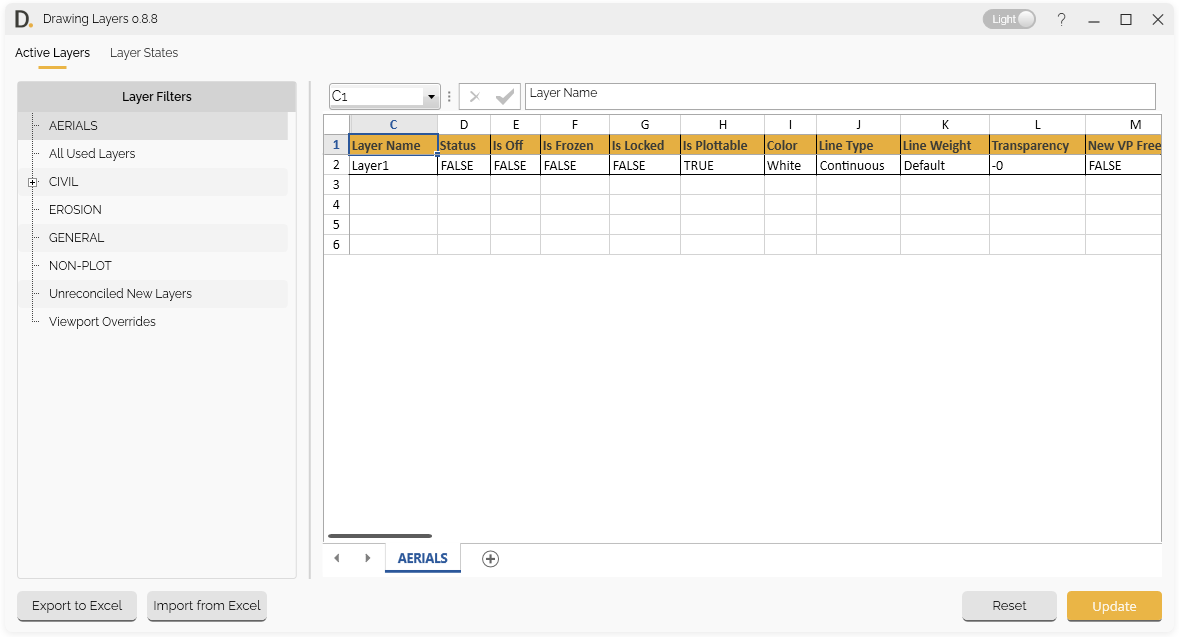
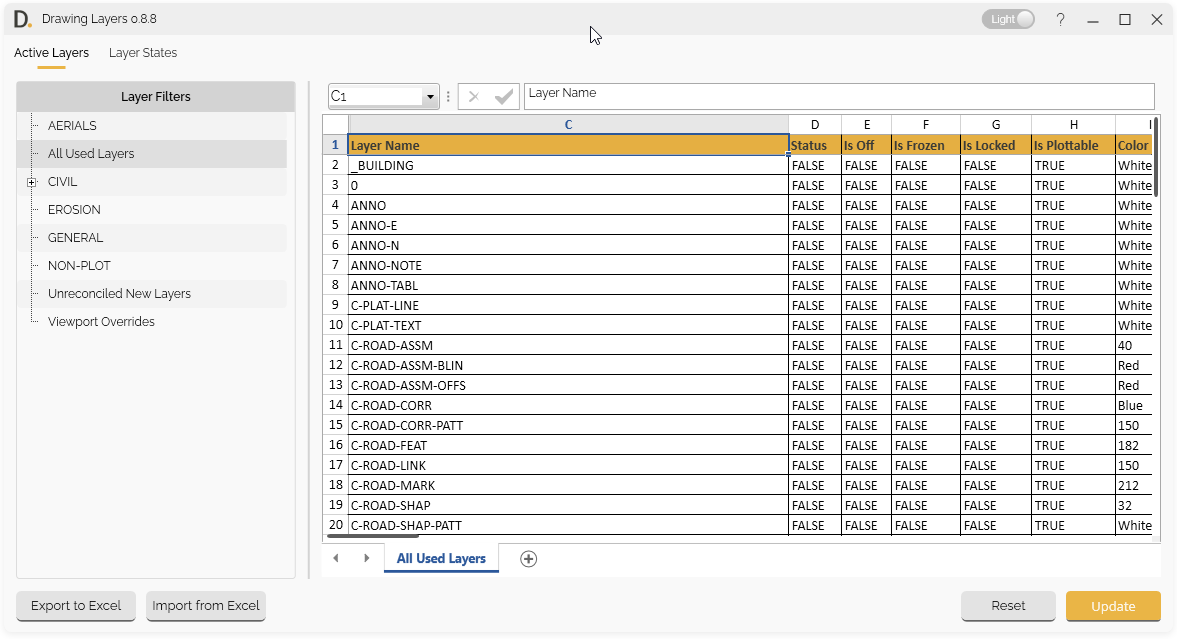
update: clean

diff --git a/docs/pages/DrawingLayers/DL-Spreadsheet-Interface.md b/docs/pages/DrawingLayers/DL-Spreadsheet-Interface.md
@@ -24,27 +24,58 @@ Drawing Layers provides a familiar spreadsheet interface for editing layer data 
 
 The spreadsheet interface offers Excel-like functionality for editing layer data, including formula support. The interface is organized into two main tabs: Active Layers and Layer States, providing comprehensive layer edition capabilities.
 
-> **GIF Placeholder:** Show overview of spreadsheet interface capabilities
 
-## Layers and Layer States
+## Active Layers Tab
 
-The interface is organized into two main tabs for different tasks:
+The Active Layers tab is the main spreadsheet interface for editing all used layer data.
 
-### Active Layers Tab
-The main spreadsheet interface for layer data edition:
-- **Filter Section** - Use the filter section to select a specific filter; the spreadsheet will then display all layer data associated with the chosen filter
+### Editing Workflow
 
-- **Layer Data View** - See all layer filters and related layers in a spreadsheet format
-- **Direct Editing** - Edit layer data directly in cells spreadsheet format
+Edit layer data in two simple steps:
 
-### Layer States Tab
-Interface for editing layer states data:
-- **Layer Assignments** - Manage layer assignments within states
-- **Bulk Changes** - Edit layer data
+#### 1. Select Layer Filter
 
-> **GIF Placeholder:** Show two-tab structure and switching
+Begin by selecting the desired layer filter to display a specific set of layers in the spreadsheet:
 
-## Interface Features
+- **Filter Selection** - Choose a filter to narrow down the layers shown. Easily find and click on the relevant layer filter for editing.
+
+#### 2. Layer Property Editing
+
+Edit layer properties directly in the spreadsheet interface:
+
+- **Layer Names** - Edit layer names and identifiers
+- **Color Settings** - Modify layer colors
+- **Linetype Properties** - Change linetype settings
+- **Other Properties** - Edit any layer property value
+
+> **GIF Placeholder:** Demonstrate selecting a filter and editing layer properties
+
+
+## Layer States Tab
+
+The Layer States tab provides spreadsheet interface for editing layer states properties within the Drawing Layers application.
+
+
+### State Editing Workflow
+
+Manage layer states in two simple steps:
+
+#### 1. Select Layer States
+
+Begin by selecting the layer states you want to edit:
+
+- **State Identification** - Find and select the desired layer states from the list.
+
+#### 2. Modify State Data
+
+Once selected, modify the properties of the chosen layer states directly in the spreadsheet interface:
+
+- **Edit Properties** - Change layer names, color and linetype overrides, visibility (on/off, freeze/thaw, lock/unlock), and plot settings.
+- **In-Place Editing** - All changes are made directly in the spreadsheet for fast and comprehensive management.
+
+> **GIF Placeholder:** Demonstrate modifying state data
+
+## Spreadsheet Interface Features
 
 ### Grid Layout
 
@@ -57,47 +88,18 @@ Familiar spreadsheet format with rows and columns:
 
 > **GIF Placeholder:** Demonstrate grid layout and navigation
 
-## Formula Capabilities
-
 ### Formula Support
 Excel-like formula functionality:
 
 > **GIF Placeholder:** Demonstrate advanced formula support
 
-## Visual Change Tracking
+### Visual Change Tracking
 
 Track changes with visual indicators:
 
 When you make changes in the spreadsheet interface, any modified values are immediately highlighted in green, making it easy to spot edits. 
 
 > **GIF Placeholder:** Demonstrate visual change tracking
-
-
-## Active Layers Tab
-
-The Active Layers tab is the main spreadsheet interface for comprehensive layer data management.
-
-### Layer Data Management
-
-Comprehensive layer data management:
-
-- **Complete Layer View** - See all used layers in spreadsheet format
-- **Direct Editing** - Edit layer data directly in cells
-- **Property Modification** - Modify any layer property
-- **Real-time Updates** - See changes immediately in the interface
-
-> **GIF Placeholder:** Show active layers management
-
-### Layer Property Editing
-
-Edit comprehensive layer properties:
-
-- **Layer Names** - Edit layer names and identifiers
-- **Color Settings** - Modify layer colors
-- **Linetype Properties** - Change linetype settings
-- **Other Properties** - Edit any layer property value
-
-> **GIF Placeholder:** Demonstrate layer property editing
 
 ### Bulk Operations
 
@@ -106,53 +108,3 @@ Efficient bulk editing capabilities:
 Bulk operations in the Active Layers tab allow you to efficiently edit multiple layers at once. You can select several cells simultaneously to perform edits across a range of data. Formulas can be applied to multiple rows, enabling quick and consistent updates to layer properties.
 
 > **GIF Placeholder:** Show bulk operations
-
-## Layer States Tab
-
-The Layer States tab provides specialized spreadsheet interface capabilities for managing layer states and their properties within the Drawing Layers application.
-
-### Layer States Overview
-
-The Layer States tab allows you to:
-- Edit layer state properties and settings
-- Manage layer assignments within states
-- Apply bulk changes to multiple states
-- Manage color and property settings for states
-
-> **GIF Placeholder:** Show overview of layer states management capabilities
-
-### State Editing
-
-#### State Selection
-
-Select specific layer states for editing:
-
-- **State Identification** - Identify and select specific layer states
-- **State Navigation** - Navigate through available layer states
-- **State Filtering** - Filter states based on criteria
-- **State Organization** - Organize states for efficient management
-
-> **GIF Placeholder:** Demonstrate state selection
-
-#### Property Modification
-
-Edit state properties and settings:
-
-- **State Names** - Edit layer state names and identifiers
-- **Layer Assignments** - Modify which layers are in each state
-- **Color Settings** - Change colors for state-related layers
-- **Property Values** - Edit any state property value
-
-> **GIF Placeholder:** Show property modification
-
-#### State Properties
-
-Manage comprehensive state properties:
-
-- **Visibility Settings** - Configure on/off, freeze/thaw, lock/unlock settings
-- **Color Overrides** - Set color override settings for states
-- **Linetype Overrides** - Configure linetype override settings
-- **Plot Settings** - Manage print visibility and plot style overrides
-
-> **GIF Placeholder:** Demonstrate state properties management
-
